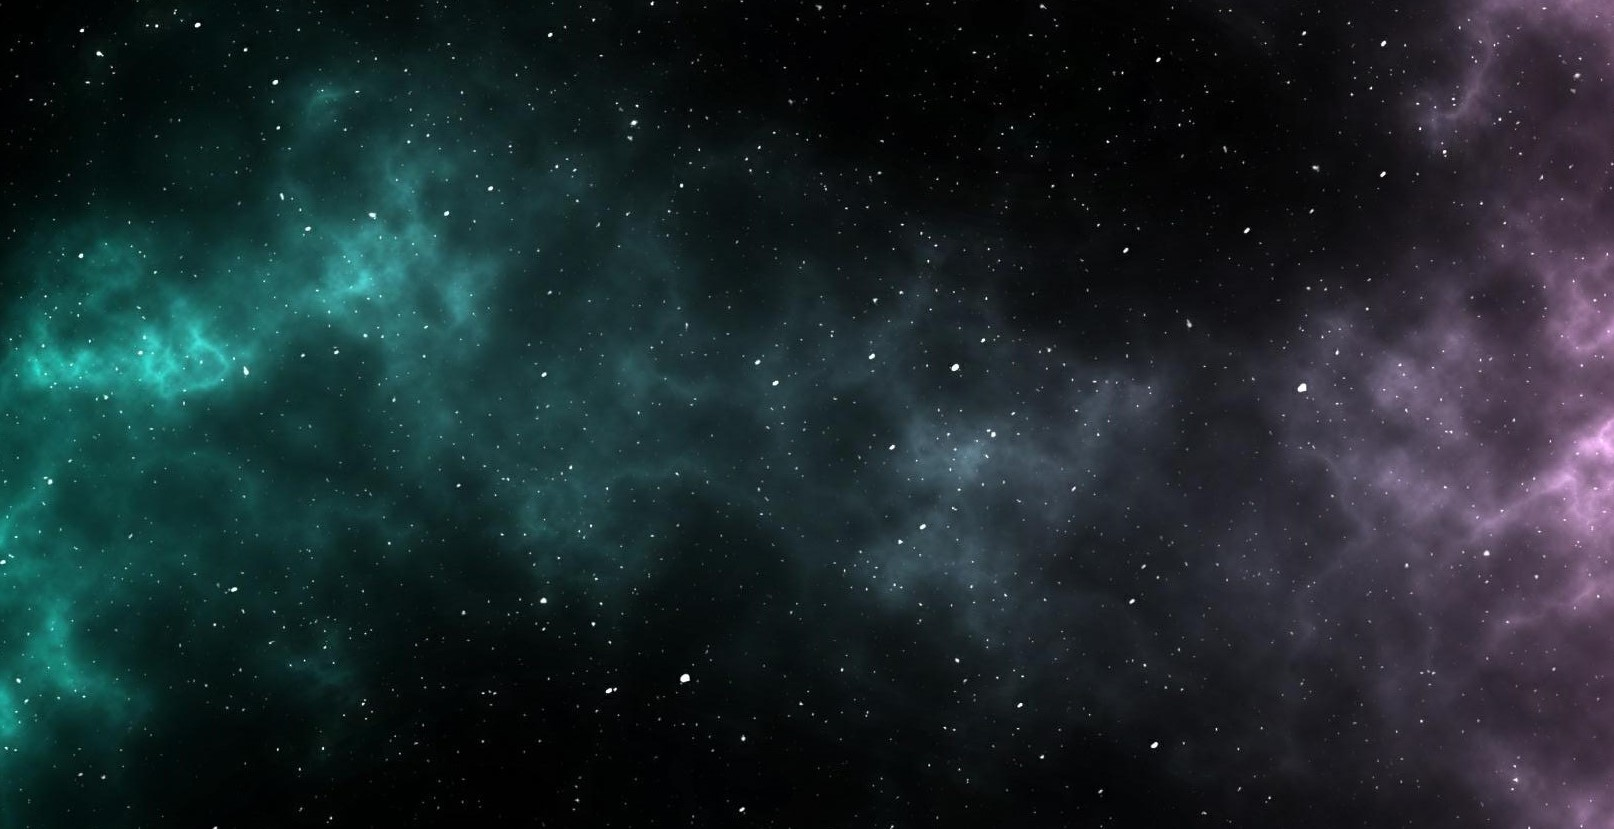
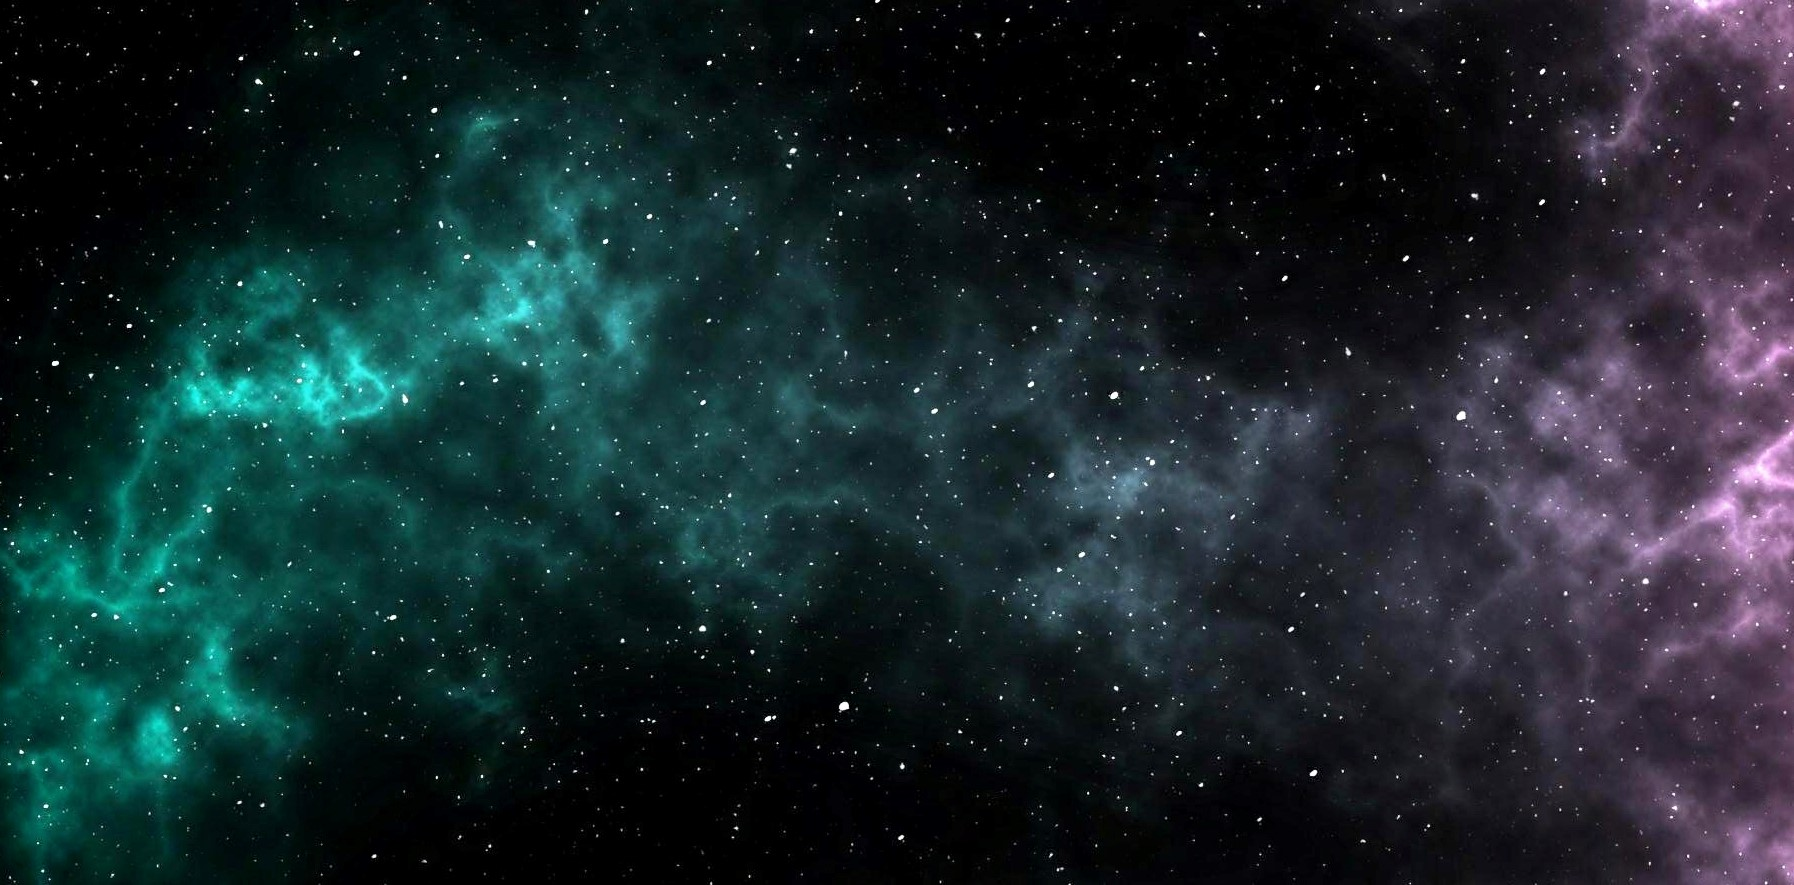
Anasayfa Düzenlendi

diff --git a/govde.html b/govde.html
@@ -7,59 +7,27 @@
     <title>Furkan Cebe</title>
     <link href="css/duzenleme.css" rel="stylesheet">
 </head>
-<body>
-    <div id="#nsyf">nsyf</div>
-    <img src="amblem.jpg" alt="uzay evren yeşil" width="150" height="150">
-    <!--background-size: cover;<img src="uzay.jpg" alt="uzay evren yeşil" width="1520" height="450">-->
-    <div class=menu>
-    <li><a href="#nsyf">Anasayfa</a></li>
-    <li><a href="#hkkmd"></a>Hakkımda</li>
-    <li><a href="#ğtmlrm"></a>Eğitimlerim</li>
-    <li><a href="#ltşm"></a>İletişim</li>
+<body>  
+    <section>
+    <div class="arkaplan">
+        <div class="üst">
+            <a href="file:///C:/Users/Asus/Desktop/proje/ITPProje/govde.html">
+                <img class="logo" src="logo.png" alt="uzay" title="UniversEngineer" >
+            </a>
+            <div class="menü">
+                <ul>
+                <li><a href="#nsyf">Anasayfa</a></li>
+                <li><a href="#hkkmd">Hakkımda</a></li>
+                <li><a href="#ğtmlrm">Eğitimlerim</a></li>
+                <li><a href="#ltşm">İletişim</a></li>
+                </ul>
+            </div>
+            <div class="içerik">
+                <h1>FURKAN CEBE</h1>
+            </div>
+        </div>
     </div>
-    <header class="header">
-        <h1>Furkan Cebe</h1>
-    </header>
-    <main>
-        <br>
-        <br>
-        <br>
-        <br>
-        <br>
-        <br>
-        <br>
-        <br>
-        <br>
-        <br>
-        <br>
-        <br>
-        <br>
-        <br>
-        <br>
-        <br>
-        <section>
-            <div id="#hkkmd">hkkmd</div>
-            <h1 class="hakkimda">Hakkımda</h1>
-            <p>Ben Furkan Cebe 2000 doğumluyum bilgisayar mühendsiliği okuyorum</p>
-        </section>
-        <section>
-            <a href="#ğtmlrm"></a>
-            <h2 class="egitimlerim">Eğitimlerim</h2>
-            <ul>
-                <li>Yalova Anadolu Lisesi</li>
-                <li>Atilla Uras Anadolu Lisesi</li>
-                <li>Orhangazi Aanadolu İmamhatip Lisesi</li>
-                <li>Pamukkale Üniversitesi</li>
-                <li>Bandırma Onyedi Eylül Üniversitesi</li>
-            </ul>
-        </section>
-        <section>
-            <div id="#ltşm"></div>
-            <h2  class="iletisim">Bana Ulaşın</h2>
-
-        </section>
-        <footer>Son kısım</footer>
-    </main>
-    
+    </section>    
+  
 </body>
 </html>

diff --git a/css/duzenleme.css b/css/duzenleme.css
@@ -1,41 +1,54 @@
-body
+*
 {
-    line-height: 1.5;
-    margin: 0;
     padding: 0;
-    background-image: url(uzay.jpg);
-    background-repeat: no-repeat;
-    background-position: top;
-    background-attachment: scroll;
+    margin: 0;
 }
-.menu
+.arkaplan
+{
+    background-image: url(uzay.jpg);
+    height: 100vh;
+    width: 100%;
+    background-position: center;
+    background-size: cover;
+}
+.logo
+{
+    width: 120px;
+    height: 80px;
+    margin: 3px 20px;
+}
+.üst
 {
     background-color: black;
+    display: flex;
+    align-items: center;
+    justify-content: space-between;
+}
+.menü ul li
+{
+    display: inline-block;
+    list-style: none;
+    padding-right: 10px;
+    margin: 0 20px;
+}
+.menü ul li a
+{
+    text-decoration: none;
+    margin-right: 15px;
     color: white;
-    float: right;
-    list-style-type: none;
-    overflow: hidden;
-    padding-right: 13px;
+    font-size: 21px;
 }
-.header
+.menü ul li a:hover
 {
-    color: cyan;
-    padding: 1.5rem;
-    text-align: center;
-    font-size: xx-large;
+    color: blueviolet;
 }
-.hakkimda
+.içerik
 {
-    color: purple;
-    text-align: center;
-}
-.egitimlerim
-{
-    color: purple;
-    text-align: center;
-}
-.iletisim
-{
-    color: purple;
+    font-family:cursive;
+    font-size: 47px;
+    position: absolute;
+    color:aqua;
+    top: 40%;
+    left: 33%;
     text-align: center;
 }
